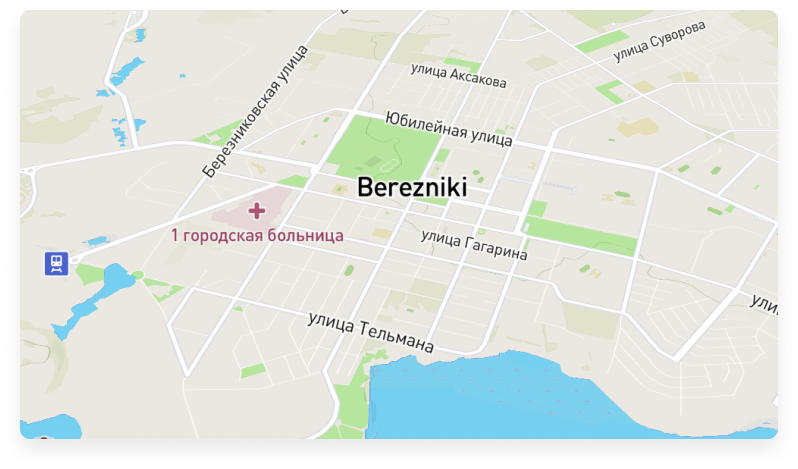
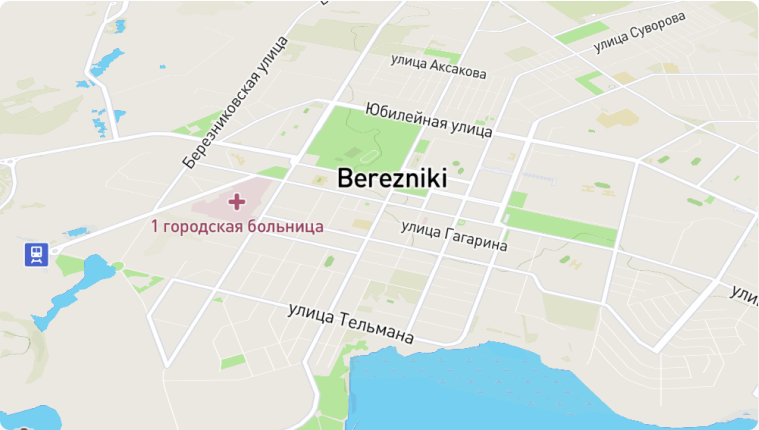
5th block beginning

diff --git a/home-work-7/index.html b/home-work-7/index.html
@@ -204,10 +204,37 @@
                 </p>
             </div>
             <div>
-                <img src="Map.png" alt="">
+                <img src="Map.png" alt="map" style="box-shadow: 0px 10px 20px 0px #1111111A;
+
+                ">
             </div>
         </div>
-        <div class="main-5"></div>
+        <div class="main-5">
+            <p style="height: 47px;
+            width: 357px;
+            color:white;
+            font-family: Montserrat;
+font-size: 36px;
+font-weight: 800;
+line-height: 47px;
+text-align: left;
+margin-left: 100px;
+margin-top: 100px;
+">Отзывы клиентов</p>
+            <div class="main-5-1">
+                <div class="main-5-inner">
+                    <p>Уютная квартира</p>
+                    <p>Первый раз отдыхали в Березниках, времени было мало соответственно жильё искали заранее. Залог вносили с опасением, и очень рады что они были напрасными. Всё супер. Нам понравилось!</p>
+                    <p>Екатерина Трушникова <br> г. Пермь 2 января 2021</p>
+                </div>
+                <div class="main-5-inner">
+                    <p>Клёвый вид на город</p>
+                    <p>Хочу поблагодарить за квартиру на ул. Юбилейной, д. 108. Удобное месторасположение, совсем рядом с центром. Квартира уютная, соседей не слышно, мы прекрасно отдохнули. Все что нужно для приготовления еды есть.</p>
+                    <p>Иван Огородников <br> г. Краснокамск 15 сентября 2019</p>
+                </div>
+            </div>
+        </div>
+        <div class="quotes"></div>
         <div class="main-6"></div>
         <div class="main-7"></div>
     </main>

diff --git a/home-work-7/css.css b/home-work-7/css.css
@@ -182,3 +182,24 @@
        grid-template-rows: 429px;
        margin-top: 50px;
    }
+   
+   .main-5 {
+       height: 649px;
+       background-color: #2B7AF1;
+       margin-top: 150px;
+   }
+   
+   .main-5-1 {
+       display: flex;
+       flex-direction: row;
+       justify-content: center;
+       vertical-align: baseline;
+   }
+   
+   .main-5-inner {
+       height: 292px;
+       width: 530px;
+       border-radius: 10px;
+       background-color: white;
+       margin: 10px;
+   }
